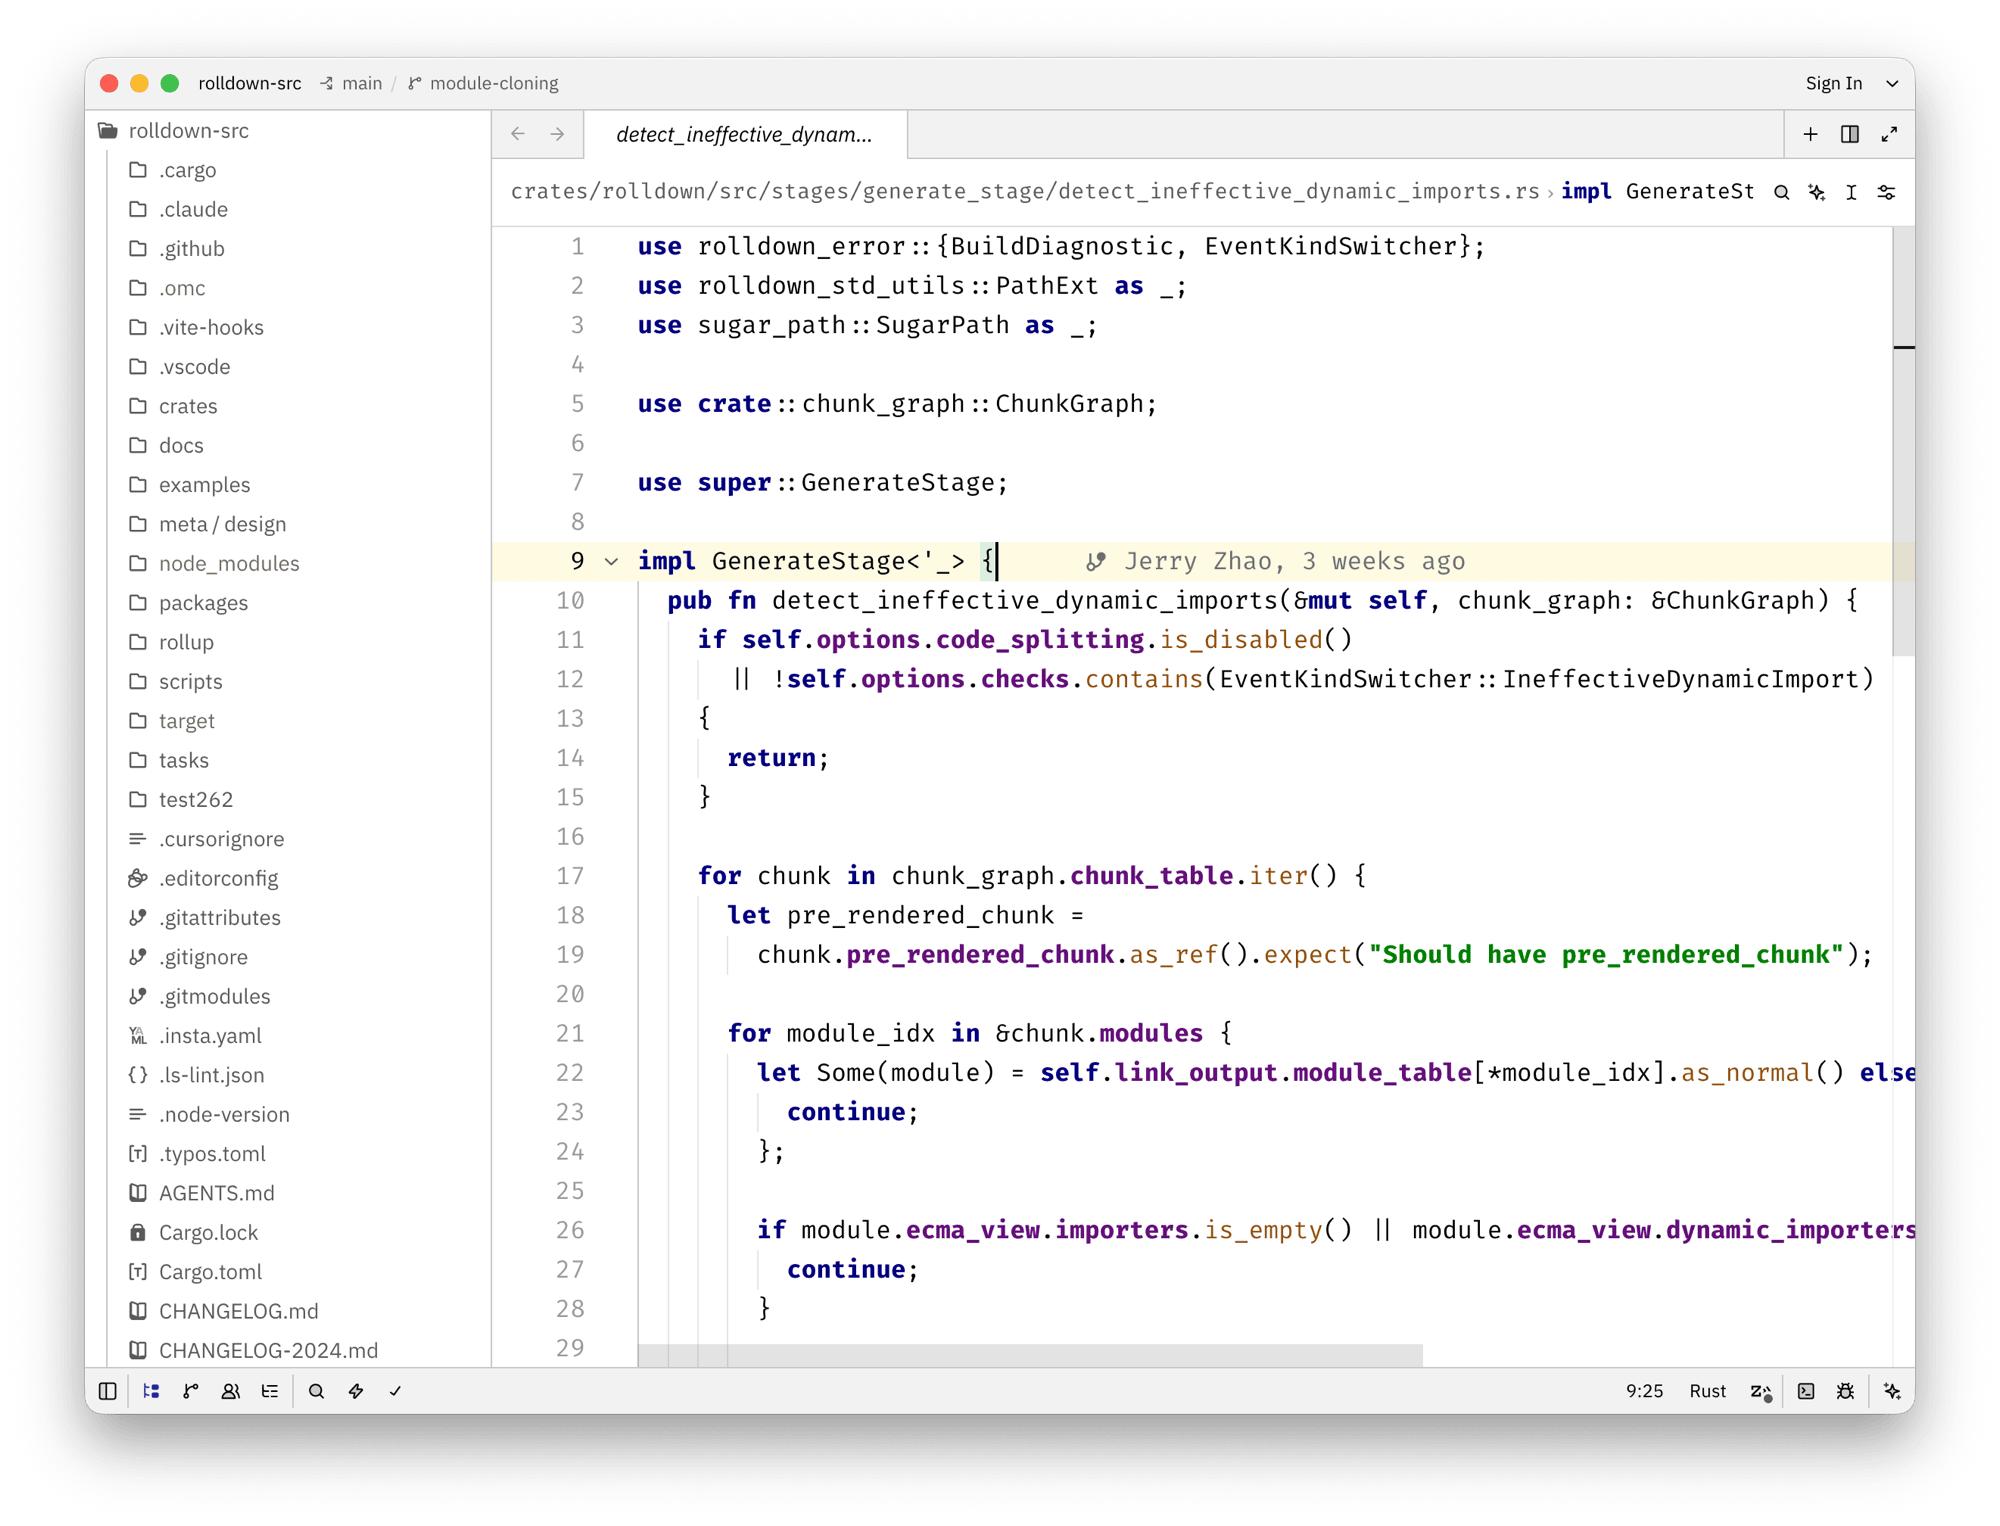
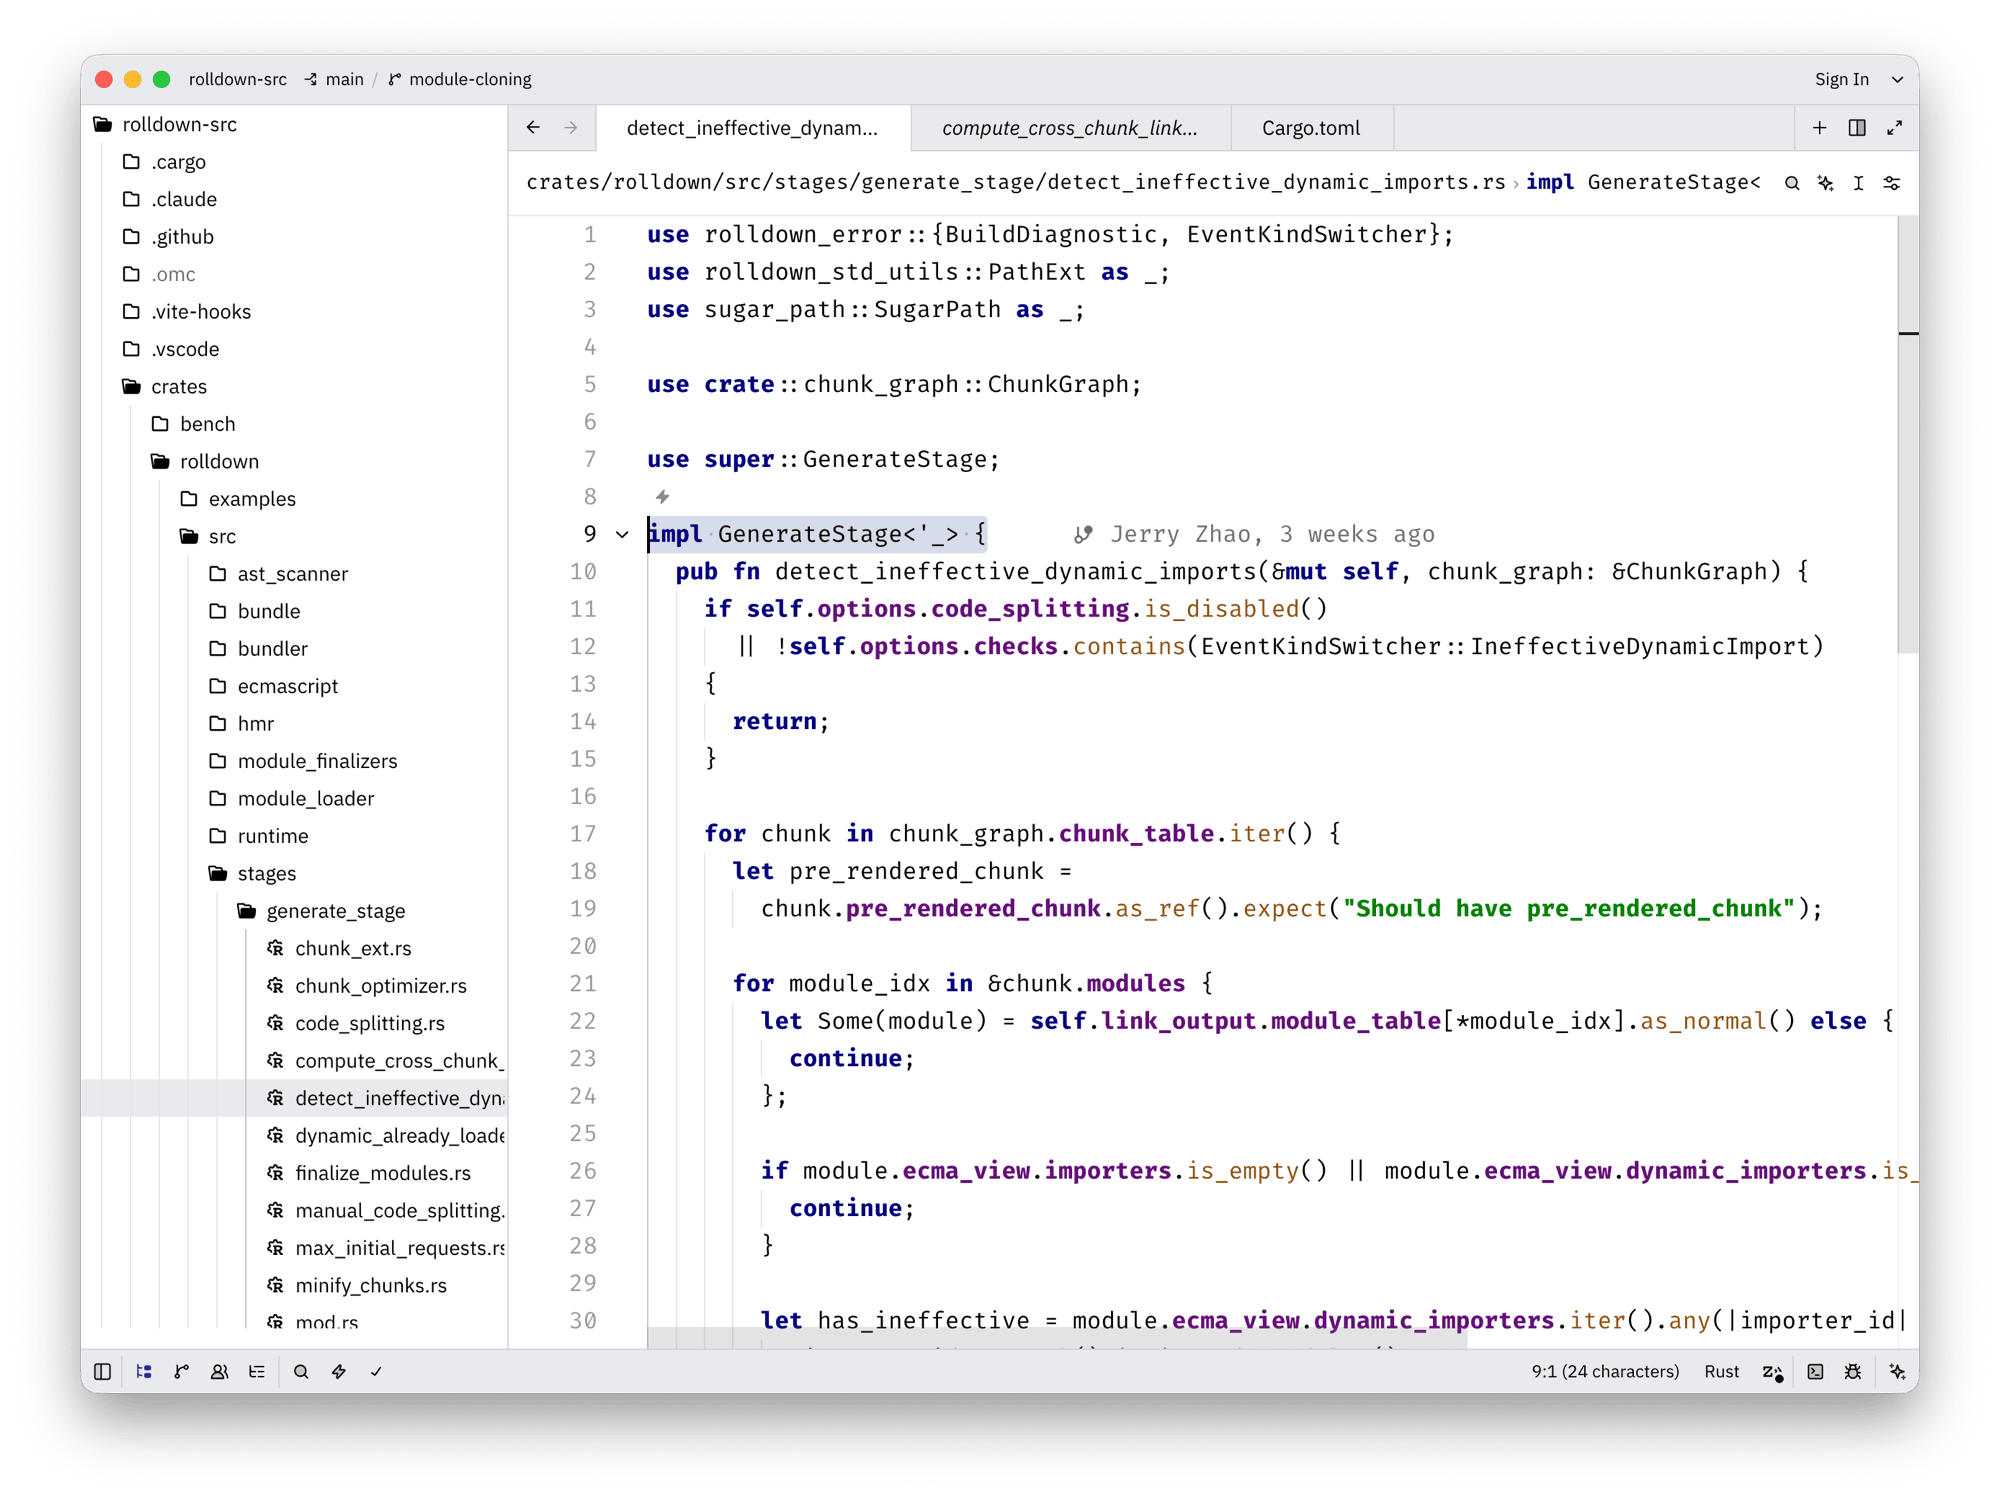
release: v0.1.2 — Islands Light UI chrome + neutral selection/hover
UI now colour-matched to JetBrains "Islands Light":
- chrome (title bar, status bar, window) #e9eaee; borders #d1d3d9/#e9eaee
- editor tabs: white active, greyed inactive (Zed convention)
- sidebar: white bg, grey #e9eaee selection fill, no focus outline
- hover states: translucent black (#00000012), grey selection
- focus accent #3871e1

Refresh screenshot; document Islands Light pairing. Bump to 0.1.2.

diff --git a/README.md b/README.md
@@ -31,8 +31,15 @@ and only a few token classes are colored.
 | Classes, functions, params, operators | `#000000` | — |
 
 Editor background `#ffffff`, active line `#fffae3`, line numbers `#999999`.
-The project panel (sidebar) is white, with a grey fill for the selected entry
-and a blue focus ring for the active entry — mirroring IntelliJ's tool window.
+
+### UI chrome — matched to "Islands Light"
+
+The UI chrome (title bar, status bar, editor tabs, sidebar, borders, hover and
+selection states) is colour-matched to JetBrains' **"Islands Light"** UI theme:
+grey `#e9eaee` window chrome, a white active editor tab over greyed inactive
+tabs, a white sidebar with a grey `#e9eaee` selection fill, and translucent-black
+hover states. For the closest overall match, use this color theme with the
+**Islands Light** UI theme in your JetBrains IDE as the reference.
 
 ## Install
 